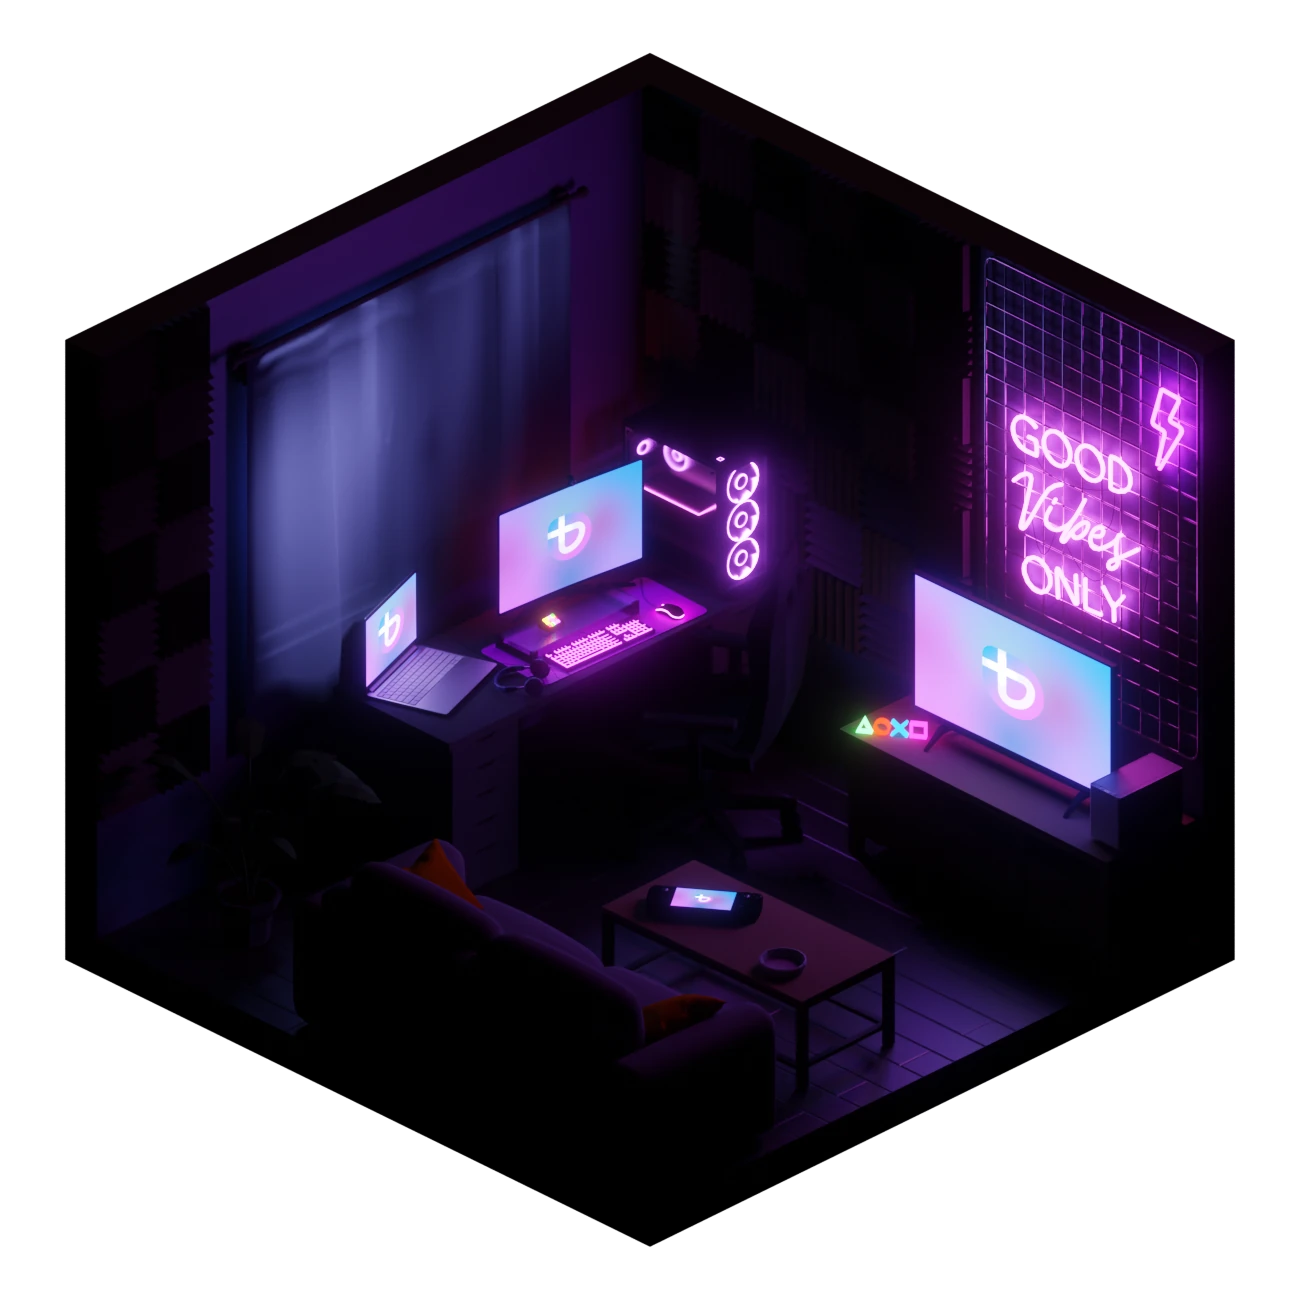
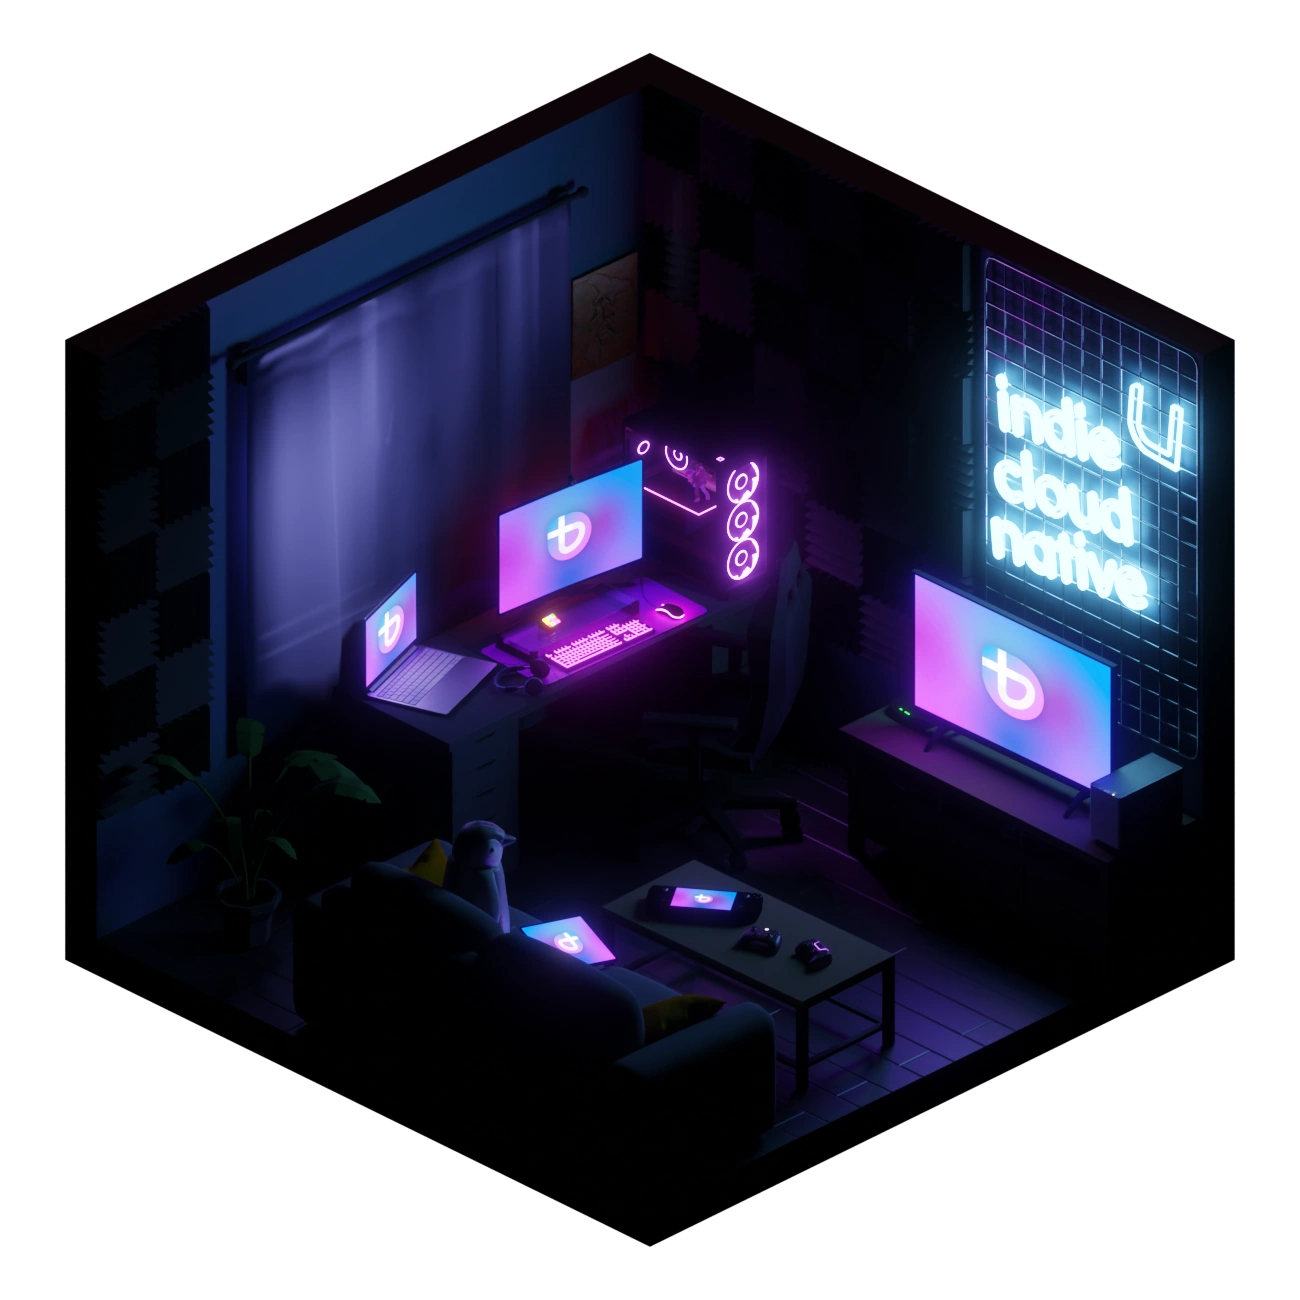
Clean up images, optimize

diff --git a/index.html b/index.html
@@ -5671,7 +5671,7 @@
 															<div class="image_frame image_item no_link scale-with-grid alignnone no_border" data-tilt data-tilt-max="3" data-tilt-scale="1.15" data-tilt-gyroscope="false">
 																<div class="image_wrapper ">
 																	<a href="https://docs.bazzite.gg/Gaming/Hardware_compatibility_for_gaming/" target="_blank" title="View Compatible Hardware">
-																		<img width="1300" height="1300" src="wp-content/uploads/2024/09/convergence_new.webp" class="scale-with-grid convergence" alt="A sample of the devices Bazzite can run on" decoding="async" loading="lazy" />
+																		<img width="1300" height="1300" src="wp-content/uploads/2024/09/convergence_small.webp" class="scale-with-grid convergence" alt="A sample of the devices Bazzite can run on" decoding="async" loading="lazy" />
 																	</a>
 																</div>
 															</div>
@@ -5712,7 +5712,7 @@
 													<div class="mcb-column-inner mfn-module-wrapper mcb-column-inner-235acfvb mcb-item-image-inner">
 														<div class="image_frame image_item no_link scale-with-grid alignnone no_border" data-tilt data-tilt-max="3" data-tilt-scale="1.15" data-tilt-gyroscope="false">
 															<div class="image_wrapper ">
-																<img width="800" height="400" src="wp-content/uploads/2024/09/library2.webp" class="scale-with-grid" alt="A game library being shared with a Framework 13 and Legion Go" decoding="async" loading="lazy" />
+																<img width="800" height="400" src="wp-content/uploads/2024/09/convergence_library.webp" class="scale-with-grid" alt="A game library being shared with a Framework 13 and Legion Go" decoding="async" loading="lazy" />
 															</div>
 														</div>
 													</div>
